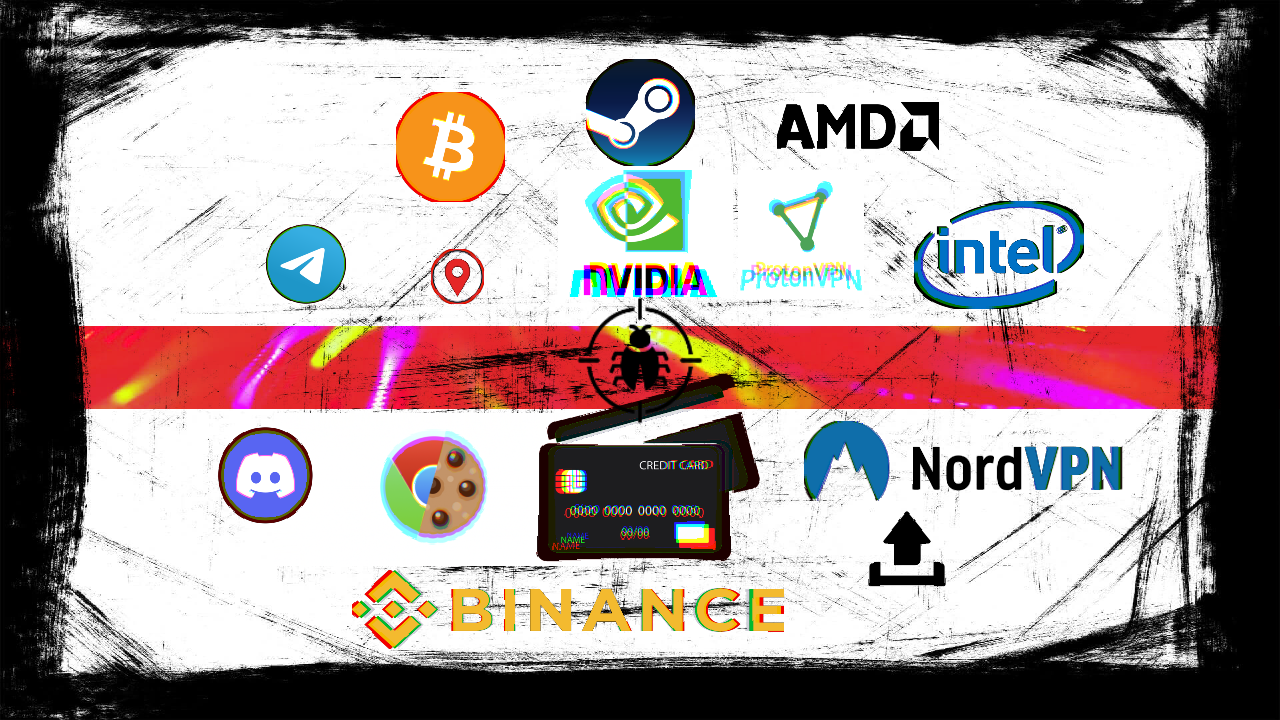
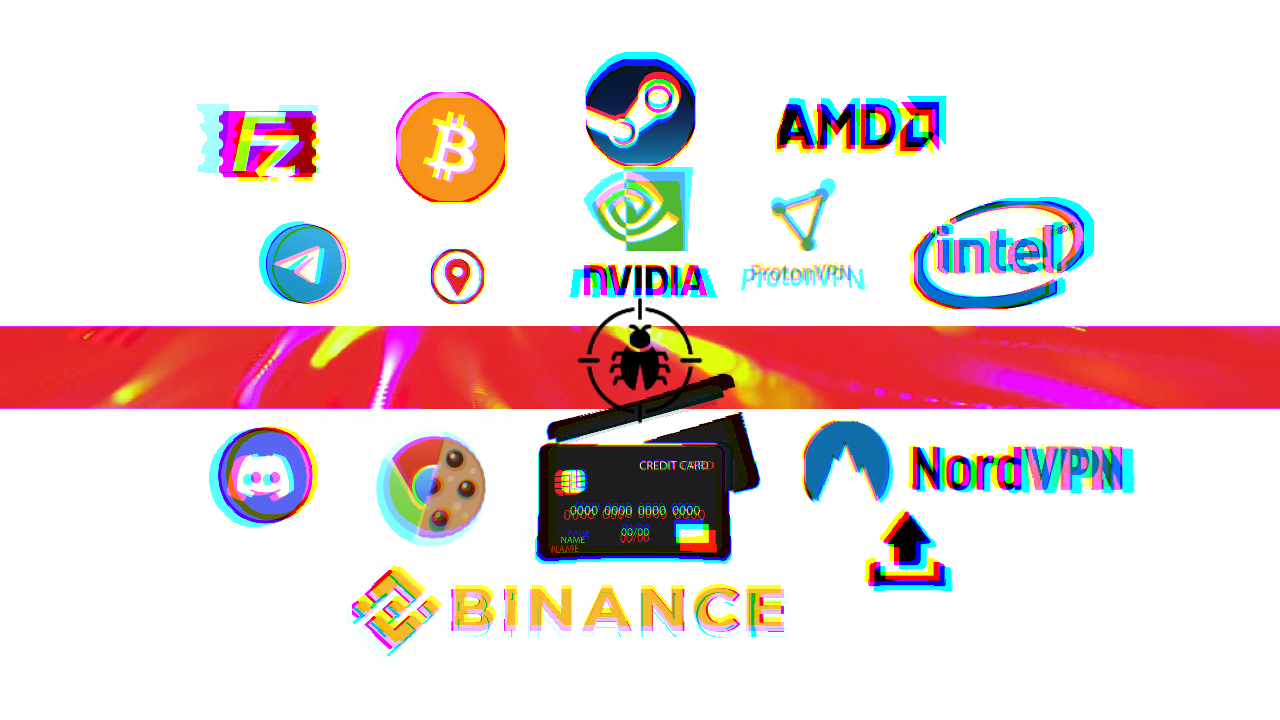
redline

diff --git a/_posts/Malware-Analysis/2021-09-27-redline.md b/_posts/Malware-Analysis/2021-09-27-redline.md
@@ -1,0 +1,293 @@
+---
+title: "RedLine Infostealer"
+classes: wide
+header:
+  teaser: /assets/images/malware-analysis/Redline/thumbnail.png
+ribbon: DodgerBlue
+description: "Reverse Engineering RedLine Infostealer. RedLine exfiltrates almost every valuable assests & it's able to load additional threats to..."
+categories:
+  - Malware Analysis
+toc: true
+---
+# RedLine in a Nutshell
+
+RedLine is a newly emerging infostealer. An *infostealer malware* is designed to gather information, and steal valuable assets from an infected system. The most common form of infostealer is to gather login information, like usernames and passwords. RedLine was first being noticed at 2020 via COVID-19 phishing emails, and has been active in 2021. RedLine is almost everywhere, and has appeared variously as trojanized services, games, and cracks. RedLine is used for extensive information stealing operations, like: credit card credentials, Crypto wallets, sensitive files, etc. Furthermore, RedLine also can be used as malware loader or dropper for extended malicious impact. For instance, it can be used to infect the victim with additional malwares like ransomwares. The RedLine malware family has been distributed and sold mostly via underground malware forums. Many samples of RedLine also appear with legit-looking digital certificates. RedLine is considered as one of the most serious threats that are currently in the wild, therefore it is a must to know how it works, how to detect it, and how to protect your organization. 
+
+
+
+# RedLine Infection Vector
+
+RedLine is extremely versatile, and has been noted being delivered by numerous mechanisms. It is used in multiple smaller campaigns by individuals who have purchased the malware from the underground malware forums. Due to this, there are a wide range of known infection vectors. Only few of them are stated below:
+
+- Trojanized as popular services: Telegram, Signal, Discord (i.e. legit-looking installers). 
+- Email phishing campaigns.
+- Abusing Google Ads while hosting Trojanized or fake websites.
+- Social engineering campaigns to attack digital artists using Non-Fungible Tokens.
+- Downloaded by malware loaders.
+
+
+
+# Technical Summary
+
+1. **Configuration Extraction:** RedLine comes with embedded configuration, in this variant, the configuration is <u>Base64</u> encoded plus an additional layer of <u>XOR</u> encryption with hard-coded key. These configuration contains the C&C server and the malware Botnet ID , which it will communicate with to exfiltrate gathered information, and also for further remote commands.
+2. **C2 Communication:** After extracting the C&C and before doing anything, RedLine will check if there is a possibility to reach its C&C server. If there is an available connection, RedLine will then try to obtain the malicious <u>Scan Settings</u>. These scan arguments contain flags that will be used to determine which information to be stolen. Moreover, the obtained scan arguments contain tuning parameters, to specify desired data assets. For instance, search patterns to specify certain files to be exfiltrated, etc.
+3. **Host Profiling:** RedLine will gather information about the infected host, in order to decide further actions. Mostly relying on <u>Windows Management Instrumentation (WMI)</u>, it harvests and generates the following information: Hardware ID, Usernames, OS version, Installed languages, Installed programs, Current running processes, Anti-malware products, Graphics card info, Victim's Location, IP address, etc. In addition to all these, RedLine contains functions to exclude <u>Blacklisted</u> countries as well as <u>Blocked</u> IPs from infection.
+4. **Information Stealing:** Here lies the bulk of its functionality. As being an information stealer, based on the obtained scan arguments, RedLine can exfiltrates the following information:
+   - <u>Files:</u> Any specified files in the following directories: `ProgramData, Program Files, Program Files (x86)`.
+   - <u>Browsers:</u> Login credentials, Cookies, Auto-fill fields used by websites, and Credit card details.
+   - <u>Crypto Wallets:</u> Credentials of: Armory, Exodus, Ethereum, Monero, Atomic, BinanceChain, and a lot more.
+   - <u>VPN Clients:</u> Credentials of the following VPN clients: NordVPN, ProtonVPN, and OpenVPN.
+   - <u>Gaming Clients:</u> It's targeting the credentials of the famous Valve's Steam gaming platform.
+   - <u>Instant Messengers:</u> Currently it's targeting Telegram session data and Discord tokens.
+   - <u>FTP Clients:</u> Credentials of FileZilla FTP client.
+5. **Remote Execution:** After successful data exfiltration, RedLine will try to obtain additional remote commands to execute within the infected machine. Going beyond information stealing, RedLine is able to perform the following remote actions:
+   - Download additional files.
+   - Download and execute PE files (i.e. additional malware like ransomware).
+   - Open desired links (i.e. malicious websites).
+   - Execute remote commands via `CMD.exe` .
+
+
+
+# Technical Analysis 
+
+## First look & Unpacking
+
+[![](/assets/images/malware-analysis/Redline/virus_total.png)](/assets/images/malware-analysis/Redline/virus_total.png)
+<center><font size="3"> <u>Figure</u>(1): <u>Results are at 2021-09-20 18:03:15 UTC. Different results may appear. </u> </font></center> 
+<br>
+This sample comes -in disguise- as packed C/C++ file, which will be responsible to unpack and expose the real RedLine malware. However, the initial packed file as you can see in the last figure is flagged malicious by 20 security vendors according to [VirusTotal](https://www.virustotal.com/gui/file/1d91ab82e01d7682deecbeef7b441f26e405c0053e0354e92fdb5cfe61b097b0/detection/f-1d91ab82e01d7682deecbeef7b441f26e405c0053e0354e92fdb5cfe61b097b0-1632160995).
+For simplicity sake, I've decided to use [UnpacMe](https://www.unpac.me/results/159ed23f-5cdf-4183-8131-d95e61932a9d#/) to do the unpacking process. The final unpacked file is found to a .NET application, which is the real RedLine malware that I will analyze in details. I've decided to focus on RedLine data structures, to properly understand which & how data is being exfiltrated. 
+
+
+
+## Configuration Extraction
+
+[![](/assets/images/malware-analysis/Redline/entrypoint.png)](/assets/images/malware-analysis/Redline/entrypoint.png)
+<center><font size="3"> <u>Figure</u>(2): <u>RedLine code entry point.</u> </font></center> 
+<br>
+RedLine begins with hiding its UI from the infected user. It dynamically resolves `GetConsoleWindow()` and `ShowWindow()` APIs do that. RedLine calls `ShowWindow()` with the parameter `SW_HIDE=0` to effectively hide its window.
+
+[![](/assets/images/malware-analysis/Redline/decrypt.png)](/assets/images/malware-analysis/Redline/decrypt.png)
+<center><font size="3"> <u>Figure</u>(3): <u>The function used for decrypting the embedded configuration.</u> </font></center>
+<br>
+Then, it uses the `Decrypt()` function to extract the embedded encrypted configuration. For this particular sample, the decrypted <u>C&C</u> is `"188.124.36.242:25802"` and the decrypted <u>Botnet</u> ID is `"paladin"`. The Botent ID is being used to track the malware and to better identify the infected machines.
+
+
+
+## C2 Communication
+
+After successfully extracting the C&C IP address, RedLine will check if it can reach the C&C server using the functions `RequestConnection()` and `TryGetConnection()`. If there is an available connection, RedLine will then try to obtain the malicious <u>Scan Settings</u> using the function `TryGetArgs()`. These settings simply represents the full arsenal of RedLine, and what capabilities it possess. The available scan settings are below:
+
+[![](/assets/images/malware-analysis/Redline/scan_args_class.png)](/assets/images/malware-analysis/Redline/scan_args_class.png)
+<center><font size="3"> <u>Figure</u>(4): <u>For simplicity sake , this screenshot is taken using Sublime and not dnSpy in order to show only the useful code.</u> </font></center>
+<br>
+These scan arguments contain flags that will be used to determine which information to be stolen. Each flag is used in certain functions to decide whether to perform the scanning functionality or not -I will show examples in a moment. Moreover, the obtained scan arguments contain tuning parameters, to specify desired data assets. For instance, they contain search patterns to specify files to be exfiltrated, paths for locating certain browsers, or a list of Blacklisted countries to exclude from infection, etc. After getting the scanning arguments (settings), RedLine proceeds to preform its main purpose, which is information stealing.
+
+
+
+## Information Stealing
+
+[![](/assets/images/malware-analysis/Redline/part_sender_class.png)](/assets/images/malware-analysis/Redline/part_sender_class.png)
+<center><font size="3"> <u>Figure</u>(5): <u>The functions names & lots of code were obfuscated to make reverse engineering harder.</u> </font></center
+<br>
+RedLine contains many functions to collect and harvest almost every valuable asset in the infected machine. Some of these functions are very simple, regarding the purpose and the implementation. For instance, `Enumerate_username()`, `Get_Malware_Path()`, `Enumerate_OS_Version()`,etc.
+
+Yet, before proceeding to the scanning functionality once again, RedLine instantiates very important data structures, which will be populated with the stolen assets and the gathered host profile. Below are the two important classes `ScanResult` and `ScanDetails` :
+
+[![](/assets/images/malware-analysis/Redline/scan_results1.png)](/assets/images/malware-analysis/Redline/scan_results1.png)
+<center><font size="3"> <u>Figure</u>(6): <u>The rest of the customized classes will be discussed in the coming sections.</u> </font></center>
+<br>
+For instance, Specified files by the scanning arguments will be populated into `ScannedFile` class in order to be exfiltrated and so on. The `scannedFile` class is in included in the bigger `ScanDetails` class, which is also included in the bigger `ScanResult` class. It's very important to understand the hierarchy of these nested classes, to draw a map of how the precious data assets are being organized and stolen form the infected machine.
+
+
+### Host Profiling
+
+RedLine contains more than 20 functions to perform almost full sweeping of the infected machine. Some of them are fairly simple, they just perform windows registry querying or they use documented APIs. For instance, since Microsoft Edge is the default browser, the `Enumerate_Browsers()` function searches the registry keys `HKEY_LOCAL_MACHINE\Software\Clients\StartMenuInternet`  and its `WoW6432` twin to find the installed browsers, in order to harvest their credentials later on. The `Enumerate_Installed_Software()` function uses the registry key `HKLM\SOFTWARE\Microsoft\Windows\CurrentVersion\Uninstall` to list every installed software in the system.  Also, RedLine uses the `Take_Screenshots()` functions to take live screenshots of the infected system.
+
+[![](/assets/images/malware-analysis/Redline/get_VS.png)](/assets/images/malware-analysis/Redline/get_VS.png)
+<center><font size="3"> <u>Figure</u>(7): <u>Concatinating the WMI query for the ManagementObjectSearcher class instance.</u> </font></center>
+<br>
+Moreover, the `Enumerate_Security_Defenders()` function uses the WMI to enumerate any installed security solution. It allows it to get the installed Antivirus, AntiSpyware and Firewall (third party) software using the `root\SecurityCenter` or the `root\SecurityCenter2` namespaces.
+
+Not to forget, the `Enumerate_Running_Processess()` function which also uses the `Win32_Process` WMI class that represents a process on an operating system. It gets the process name + PID + command line arguemtns in order to build a live full view of the infected machine. I think the attacker uses these information to decide further malicious actions i.e. certain exploits.
+
+[![](/assets/images/malware-analysis/Redline/gelocation.png)](/assets/images/malware-analysis/Redline/gelocation.png)
+<center><font size="3"> <u>Figure</u>(8): <u>The two if-statements which are underlined lines point to how the malware decides to stop the infection.</u> </font></center>
+<br>
+Lastly, one more interesting function is the `Send()` function which contains the above method. It uses the following remote API `https://api.ip.sb/geoip` to gather very detailed geographical information about the victim. The remote API returns XML data specifying many detailed information:
+
+```xml
+{"organization":"XXXXXXXX","longitude":XXXXXXX,"city":"XXXXXX","timezone":"XXXXXX","isp":"XXXXXXX","offset":XXXXX,"region":"XXXXX","asn":XXXXX,"asn_organization":"XXXXX","country":"XXXXX","ip":"XXXXXXX","latitude":XXXXXXX,"continent_code":"XXXX","country_code":"XXXX","region_code":"XXXXX"}
+```
+
+
+### Exfiltrating Files
+
+[![](/assets/images/malware-analysis/Redline/scanned_file_class.png)](/assets/images/malware-analysis/Redline/scanned_file_class.png)
+<center><font size="3"> <u>Figure</u>(9): <u>The contents of the file is being automatically read when the constructor is called with the filename string parameter.</u> </font></center>
+<br>
+It's important to know the inner structures of the `ScannedFile` class which is used to populate the exfiltrated files. As you can see in the above screenshot, once a file is being instantiated, nearly all of its important contents is stolen.
+
+[![](/assets/images/malware-analysis/Redline/exfil_files.png)](/assets/images/malware-analysis/Redline/exfil_files.png)
+<center><font size="3"> <u>Figure</u>(10): <u>The function shows the concatination of the searching paths.</u> </font></center>
+<br>
+Based on the <u>obtained scan arguments (settings)</u> during the previous C2 communication, they contain search patterns to specify desired files to be stolen. RedLine currently use the search patterns to locate files in the following directories only: `Program Files (X86)/`, `Program Files/`, and `Program Data/`. The directory `ProgramData/` is for user-agnostic data generated during execution such as shared cache, shared databases, shared settings, shared preferences, etc.
+
+[![](/assets/images/malware-analysis/Redline/exfil_files2.png)](/assets/images/malware-analysis/Redline/exfil_files2.png)
+<center><font size="3"> <u>Figure</u>(11): <u>Once a ScannedFile instance is instantiated with a filename, all of the file contents is read.</u> </font></center
+<br>
+RedLine only needs to locate the specified files based on the search patterns then create a `ScannedFile` instance of the filtered filename. Once instantiated with the filename, almost all of the file contents is stolen because of the `ScannedFile` constructor code.
+
+
+### Harvesting Browsers
+
+[![](/assets/images/malware-analysis/Redline/browser_class.png)](/assets/images/malware-analysis/Redline/browser_class.png)
+<center><font size="3"> <u>Figure</u>(12): <u>The collected data about the targeted browser.</u> </font></center>
+<br>
+Also, It's very important to know the inner structures of the `Browser` class, which is used to populate the harvested browser credentials. Once a browser is targeted, RedLine steals its accounts credentials, credit card credentials, cookies, and auto-fill data. RedLine targets <u>Chromium</u> based browsers as well as <u>Gecko</u> based browsers, which makes RedLine nearly targets most used browsers.
+
+[![](/assets/images/malware-analysis/Redline/harvest_browser.png)](/assets/images/malware-analysis/Redline/harvest_browser.png)
+<center><font size="3"> <u>Figure</u>(13): <u>Notice the passed scanning settings which were obtained by the C2 communication.</u> </font></center
+<br>
+
+[![](/assets/images/malware-analysis/Redline/harvest_browser2.png)](/assets/images/malware-analysis/Redline/harvest_browser2.png)
+<center><font size="3"> <u>Figure</u>(14): <u>Populating the Browser class.</u> </font></center>
+<br>
+RedLine also uses more methods like `DecryptChromium()` in order to effectively harvest the targeted credentials. It's also being noticed that for <u>Gecko</u> based browsers, this sample <u>only steals the cookies</u> unlike the targeted <u>Chromium</u> based browsers.
+
+
+### Stealing Crypto Wallets
+
+A crypto wallet is an application used to both cold store and retrieve digital cryptocurrency assets. RedLine of course targets these valuable assets because of the rise of people's interest in cryptocurrency during the past few years.
+
+[![](/assets/images/malware-analysis/Redline/crypto1.png)](/assets/images/malware-analysis/Redline/crypto1.png)
+<center><font size="3"> <u>Figure</u>(15): <u>The AllWallets calls is used for generic crypto wallets.</u> </font></center>
+<br>
+RedLine comes with many classes targeting many crypto wallets like: Armory, Exodus, Ethereum, Monero, Atomic, BinanceChain, Jaxx, Electrum, Guarda, etc. RedLine uses pre-defined search patterns and scan arguments to populate the wallets into `ScannedFile` instances. Each class in the previous figure is just used to initialize defined search patterns to be passed to the regular `Search()` function which is used in files exfiltration. 
+
+[![](/assets/images/malware-analysis/Redline/crypto2.png)](/assets/images/malware-analysis/Redline/crypto2.png)
+<center><font size="3"> <u>Figure</u>(16): <u>Overriding the GetScanArgs function with new search patterns.</u> </font></center>
+<br>
+These search patterns specify the credentials files which is being used for the specific wallet type. For every wallet class, it is used to override the `GetScanArgs()` function which is used internally in the `Search()` function in order to filter for the appropriate wallet files. These filtered files will be exfiltrated.
+
+
+### Harvesting Instant Messagner Clients
+
+Instant Messenger (IM) clients like Discord and Telegram have seen a recent rise in popularity, with Discord boasting over 100 million active users. For Telegram, RedLine looks used the `GetProcessesByName()` function to get the `ExecutablePath` for Telegram running process. Then, it looks for the folder `tdata`. This is where the Instant Messenger stores its session data, including images and conversations:
+
+[![](/assets/images/malware-analysis/Redline/telegram1.png)](/assets/images/malware-analysis/Redline/telegram1.png)
+<center><font size="3"> <u>Figure</u>(17): <u>The function is passed the Telegram process name.</u> </font></center>
+<br>
+It's also used  to override the `GetScanArgs()` function which is used internally in the `Search()` function in order to filter for the targeted files.
+
+For Discord, RedLine is stealing its tokens using the `Discord.GetTokens()` function. A Discord token is a phrase of letters and numbers that acts as an authorization code to access Discord’s servers. It effectively acts as an encryption of your username and password.
+
+
+### Snatching VPN Clients Credentials
+
+With the rise in popularity in VPN services, RedLine doesn't have any plans to miss this chance. RedLine targets the VPN clients of the following services: NordVPN, OpenVPN, and ProtonVPN. For NordVPN client, RedLine uses obfuscated strings to locate the targeted XML files which contains the VPN credentials:
+
+[![](/assets/images/malware-analysis/Redline/nord1.png)](/assets/images/malware-analysis/Redline/nord1.png)
+<center><font size="3"> <u>Figure</u>(18): <u>This method of strings obfuscation is almost used everywhere in RedLine classes.</u> </font></center
+<br>
+Then, it uses decrypting functions to decipher the wanted credentials:
+
+[![](/assets/images/malware-analysis/Redline/nord2.png)](/assets/images/malware-analysis/Redline/nord2.png)
+<center><font size="3"> <u>Figure</u>(19): <u>The CryptoHelper class is used for various decryption and encryption operations within RedLine.</u> </font></center>
+<br>
+Yet, for <u>OpenVPN</u> and <u>ProtonVPN</u>, RedLine uses the same old method of overriding the `GetScanArgs()` function which is used internally in the `Search()` function in order to filter for the targeted files. Then, it exfiltrates the filtered files as `ScannedFile` instances which contains the VPN credentials.
+
+
+### Harvesting Gaming Clients
+
+Steam is a video game digital distribution service by [Valve](https://en.wikipedia.org/wiki/Valve_Corporation). By 2019, the service had over 34,000 games with over 95 million monthly active users. Steam is regarded as one of the best gaming platforms in the industry. Steam has an in-built store with a lot of ‘Steam accounts’ having various other services and banking details related to it. RedLine attempts to go after the <u>Steam Sentry File</u> which is used to store credentials:
+
+[![](/assets/images/malware-analysis/Redline/steam1.png)](/assets/images/malware-analysis/Redline/steam1.png)
+<center><font size="3"> <u>Figure</u>(20): <u>RedLine overrides the GetScanArgs() function with defined search patterns. Then, exfiltrate the targeted files.</u> </font></center>
+<br>
+A VDF file is a data file format used by Valve's Source game engine. It contains various kinds of game metadata, including data for resources, installation scripts, configuration scripts, and visualization elements.
+
+
+### Stealing FTP Credentials
+
+A File Transfer Protocol client (FTP client) is a software utility that establishes a connection between a host computer and a remote server, typically an FTP server. An FTP client provides the dual-direction transfer of data and files between two computers over a TCP network or an Internet connection.
+
+[![](/assets/images/malware-analysis/Redline/ftp1.png)](/assets/images/malware-analysis/Redline/ftp1.png)
+<center><font size="3"> <u>Figure</u>(21): <u>RedLine checks the existance of two different paths to locate the targeted credentials.</u> </font></center>
+<br>
+RedLine targets the free, open-source FileZilla application. RedLine uses the `ScanCredentials()` function to extract the required credentials and to populate them in `Account` class which will contain the URL + username + password.
+
+
+
+## Remote Execution
+
+RedLine extends its functionality beyond information stealing. Here, RedLine takes the role of a malware loader. A malware ***loader*** is the software which drops the actual malicious content on the system, then executes the first stage of the attack. Hence, RedLine is capable of delivering some additional serious threats to the infected machine, like ransomwares for example. After successfully performing the information stealing operations, RedLine uses the `TryGetTasks()` function to obtain a list of `UpdateTask` class, which contains the required arguments to successfully perform remote execution actions:
+
+[![](/assets/images/malware-analysis/Redline/task1.png)](/assets/images/malware-analysis/Redline/task1.png)
+<center><font size="3"> <u>Figure</u>(22): <u>The availabe remote actions aka update tasks.</u> </font></center>
+<br>
+Once a connection with its C&C server has been established, RedLine can remotely perform the operations described in the above figure. Below are the inner details of the `DownloadAndExecuteUpdate` class which is used -as the name suggests- to download a PE file and executes it in the infected machine:
+
+[![](/assets/images/malware-analysis/Redline/task2.png)](/assets/images/malware-analysis/Redline/task2.png)
+<center><font size="3"> <u>Figure</u>(23): <u>The passed argument consists of the malicious URL + the filename.</u> </font></center>
+<br>
+RedLine can be used effectively as malware loader or dropper for further wanted malicious activities. Moreover, it can be used to open desired links for various malicious or non-malicious purposes. 
+
+
+
+# Conclusion
+
+RedLine is regarded as a true security threat to any machine. The capabilities of being able to steal almost every valuable asset, and being able to load additional serious malwares or exploits are regarded most fatal. This threat has been sold as individual packages with several pricing options, or as Malware-as-a-Service (MaaS) on a subscription-based pricing package. With the rise of Maas underground forums, RedLine threats will not fade away in the very near future. Therefore, it is a must to know how it works, how to detect it, and how to protect your organization.
+
+
+<br>
+# IoCs
+
+| No.  | Description         | Value                                                        |
+| ---- | ------------------- | ------------------------------------------------------------ |
+| 1    | Initial packed file | 1d91ab82e01d7682deecbeef7b441f26e405c0053e0354e92fdb5cfe61b097b0 |
+| 2    | Unpacked RedLine    | e9905446c858326e8f0fe12f6df777542180608381f1ccae4bda9a8356b04abc |
+| 3    | RedLine C&C server  | 188.124.36.242:25802                                         |
+
+
+<br>
+# YARA Rule
+
+```css
+rule redline : infostealer
+{
+	meta:
+		description = "This is a noob rule for detecting unpacked RedLine"
+		author = "Nidal Fikri @cyber_anubis"
+		
+	strings:
+		$mz = {4D 5A}			//PE File
+		
+		$s1 = "IRemoteEndpoint"
+		$s2 = "ITaskProcessor"
+	
+		$s3 = "ScannedFile"
+		$s4 = "ScanningArgs"
+		$s5 = "ScanResult"
+	
+		$s6 = "DownloadAndExecuteUpdate"
+		$s7 = "OpenUpdate"
+		$s8 = "CommandLineUpdate"
+  
+		$s9 = "TryCompleteTask"
+		$s10 = "TryGetTasks"
+		$s11 = "TryInitBrowsers"
+		$s12 = "InstalledBrowsers"
+		$s13 = "TryInitInstalledBrowsers"
+		$s14 = "TryInitInstalledSoftwares"
+		$s15 = "TryGetConnection"
+
+	condition:
+	($mz at 0) and (10 of ($s*))
+}
+```
+
+
+# References
+
+- https://blogs.blackberry.com/en/2021/07/threat-thursday-redline-infostealer
